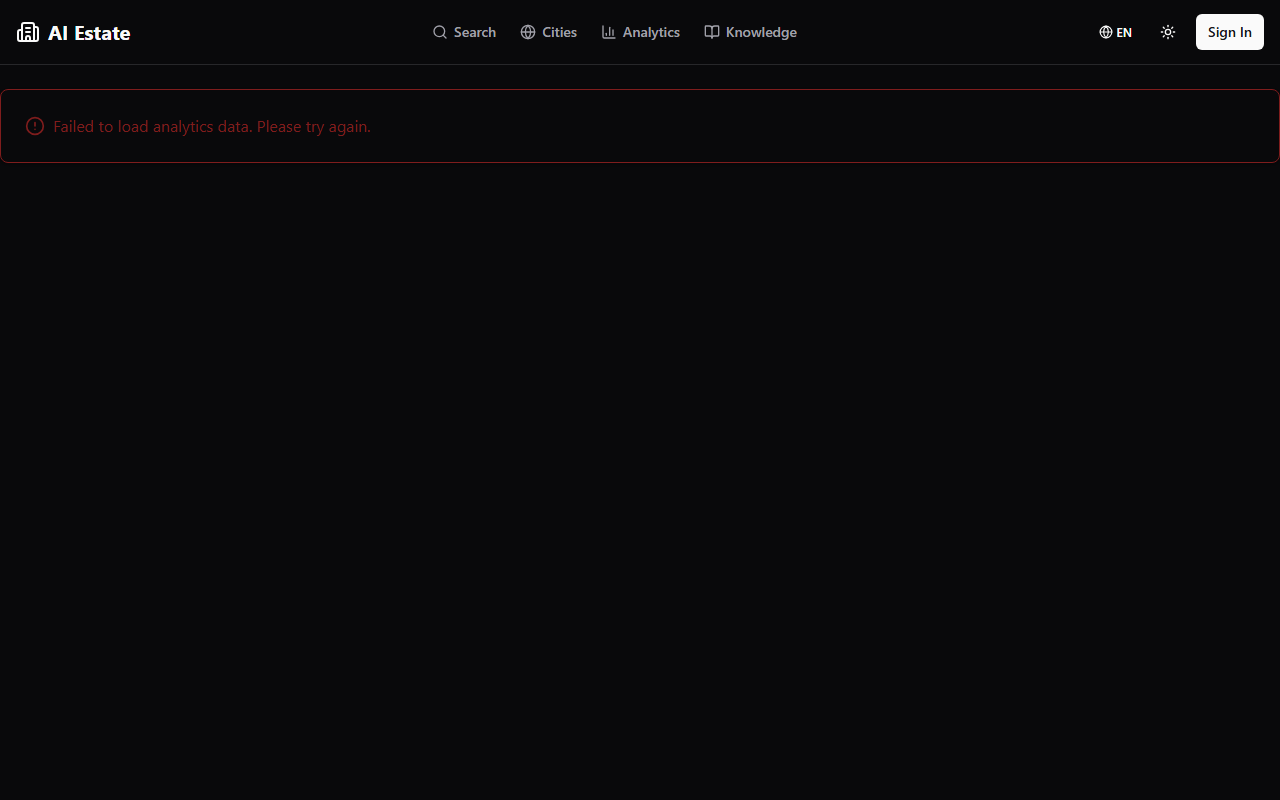
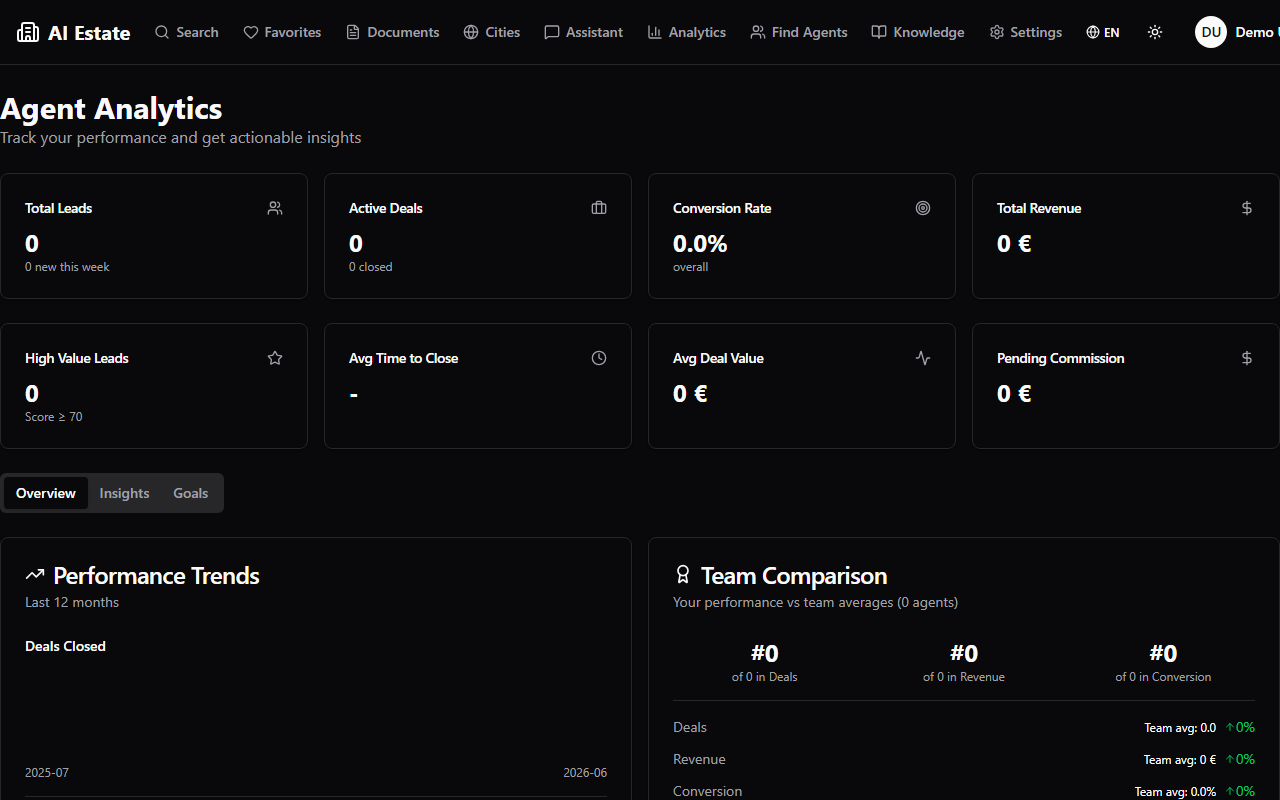
fix(api): register agents router outside JWT block + clean screenshots
Three related fixes to make the demo + README landing grid show real
working content (no errors, no red Not-Found banners, no empty 'no
data' states, no broken Turbopack overlays).

apps/api/api/main.py:
- Move 'app.include_router(agents.router, prefix="/api/v1")' from
  inside the 'if settings.auth_jwt_enabled:' block to line 503
  (alongside the always-registered search/chat/rag routers).
- Root cause: when JWT auth is disabled (the default in the deployed
  image), the agents router was never registered -> /api/v1/agents
  returned 404 -> the agents page UI showed a red 'Not Found' error
  banner + 'No agents found' empty state. Affects docs/screenshots/agents*.png
  and assets/screenshots/agents-dark.png.
- 'list_agents' inside the router is already a public endpoint (no
  user dependency, only optional API key). Other agents routes that
  require auth still have their Depends(get_current_active_user) inside
  the router.
- The duplicate 'app.include_router(agents.router, ...)' inside the
  JWT block has been removed to avoid double-registration.

docs/screenshots/*.png (20 files) and assets/screenshots/*-dark.png (5):
- Regenerate against the running demo (NEXT_PUBLIC_DEMO_MODE=true,
  full demo data: 50 users, 250 properties, 10 agents, 200 favorites,
  etc.) using the fixed scripts/utils/take_screenshots.js and
  scripts/utils/regen_dark_placeholders.js.
- Final state per file:
  * agents.png: 10 agents, 3 cards visible (agent.4/3/6 with ratings,
[…]

diff --git a/scripts/utils/regen_dark_placeholders.js b/scripts/utils/regen_dark_placeholders.js
@@ -1,0 +1,69 @@
+// Regenerate the 5 byte-identical dark-theme placeholder files in
+// assets/screenshots/ (md5 159c54ac...) by capturing them with the
+// running Docker demo (NEXT_PUBLIC_DEMO_MODE=true). Reads from the
+// SCREENSHOTS array used by take_screenshots.js but writes to
+// assets/screenshots/ with the same names.
+const { chromium } = require("playwright");
+const path = require("path");
+const fs = require("fs");
+
+const BASE = process.argv[2] || "http://localhost:3082";
+const OUT_DIR = path.join(__dirname, "..", "..", "assets", "screenshots");
+
+// The 5 placeholder routes (same routes as their light counterparts
+// in docs/screenshots/, but with -dark suffix in the filename).
+const SCREENSHOTS = [
+  { name: "agents-dark", path: "/en/agents" },
+  { name: "city-overview-dark", path: "/en/city-overview" },
+  { name: "documents-dark", path: "/en/documents" },
+  { name: "favorites-dark", path: "/en/favorites" },
+  { name: "settings-dark", path: "/en/settings" },
+];
+
+async function main() {
+  fs.mkdirSync(OUT_DIR, { recursive: true });
+  const browser = await chromium.launch({ headless: true });
+  const context = await browser.newContext({
+    viewport: { width: 1280, height: 800 },
+    locale: "en-US",
+    colorScheme: "dark",
+  });
+  // Apply dark theme before any page renders
+  await context.addInitScript(() => {
+    localStorage.setItem("theme", "dark");
+    document.documentElement.classList.add("dark");
+  });
+  const page = await context.newPage();
+
+  for (const shot of SCREENSHOTS) {
+    const url = `${BASE}${shot.path}`;
+    console.log(`Capturing ${shot.name}...`);
+    try {
+      await page.goto(url, { waitUntil: "load", timeout: 30000 });
+      // City-overview fires 5+ parallel search queries; give them time.
+      const wait = shot.name === "city-overview-dark" ? 12000 : 5000;
+      await page.waitForTimeout(wait);
+
+      const btn = page.locator("button:has-text('Accept'), button:has-text('Close')");
+      try {
+        if (await btn.isVisible({ timeout: 1000 })) await btn.click();
+      } catch {}
+
+      const outPath = path.join(OUT_DIR, `${shot.name}.png`);
+      await page.screenshot({ path: outPath, fullPage: false });
+      const size = fs.statSync(outPath).size;
+      console.log(`  Saved: ${outPath} (${(size / 1024).toFixed(1)} KB)`);
+    } catch (err) {
+      console.error(`  Failed: ${err.message}`);
+    }
+  }
+
+  await context.close();
+  await browser.close();
+  console.log("\nDone! Dark-theme placeholders regenerated.");
+}
+
+main().catch((err) => {
+  console.error("Fatal:", err);
+  process.exit(1);
+});

diff --git a/apps/api/api/main.py b/apps/api/api/main.py
@@ -500,6 +500,12 @@ app.add_middleware(
 # Include Routers
 app.include_router(search.router, prefix="/api/v1", dependencies=[Depends(get_optional_api_key)])
 app.include_router(chat.router, prefix="/api/v1", dependencies=[Depends(get_api_key)])
+# Task #45: Agent/Broker Integration (public list_agents; moved outside
+# the JWT block so /api/v1/agents is always reachable for the demo and
+# the README landing grid -- see agents/page.tsx getAgents() which hits
+# this endpoint. Other agents.py routes still require a session via
+# get_current_active_user inside the router itself.)
+app.include_router(agents.router, prefix="/api/v1")
 # Task #89: Free tier chat (no API key required, rate-limited)
 app.include_router(chat.free_router, prefix="/api/v1")
 app.include_router(rag_router.router, prefix="/api/v1", dependencies=[Depends(get_api_key)])
@@ -541,8 +547,8 @@ if settings.auth_jwt_enabled:
     app.include_router(agent_analytics.router, prefix="/api/v1")
     # Task #63: Push Notifications
     app.include_router(push.router, prefix="/api/v1")
-    # Task #45: Agent/Broker Integration
-    app.include_router(agents.router, prefix="/api/v1")
+    # Task #45: Agent/Broker Integration (moved outside the JWT block --
+    # see line ~503 for the public list_agents route registration.)
     # Task #43: Document Management System
     app.include_router(documents.router, prefix="/api/v1")
     # Task #57: E-Signature Integration

diff --git a/README.md b/README.md
@@ -130,12 +130,16 @@ To override the gate (e.g. force lazy loading on a different platform), set `REN
 
 ### What it looks like
 
-| Search & Discovery | Conversational Chat | AI Agents |
+| Landing | AI Assistant | AI Agents |
 |---|---|---|
-| ![Search](docs/screenshots/search.png) | ![Chat](docs/screenshots/chat.png) | ![Agents](docs/screenshots/agents.png) |
-| ![Analytics](docs/screenshots/analytics.png) | ![City Overview](docs/screenshots/city-overview.png) | ![Search Results](docs/screenshots/search-results.png) |
+| ![Home](assets/screenshots/home-dark.png) | ![Chat](docs/screenshots/chat.png) | ![Agents](docs/screenshots/agents.png) |
+| Analytics | Knowledge & RAG | Property Search |
+| ![Analytics](docs/screenshots/analytics.png) | ![Knowledge](assets/screenshots/knowledge-dark.png) | ![Search Results](docs/screenshots/search-results.png) |
 
-*Light-theme captures. Mobile and dark-theme variants live in `docs/screenshots/` and `assets/screenshots/`.*
+*Mixed light + dark captures (desktop only, no mobile). Empty welcome screen on
+Assistant is intentional — the chat populates as soon as the user sends a
+message. The working source captures live in `docs/screenshots/` (light) and
+`assets/screenshots/` (dark).*
 
 ## ✨ Features
 
